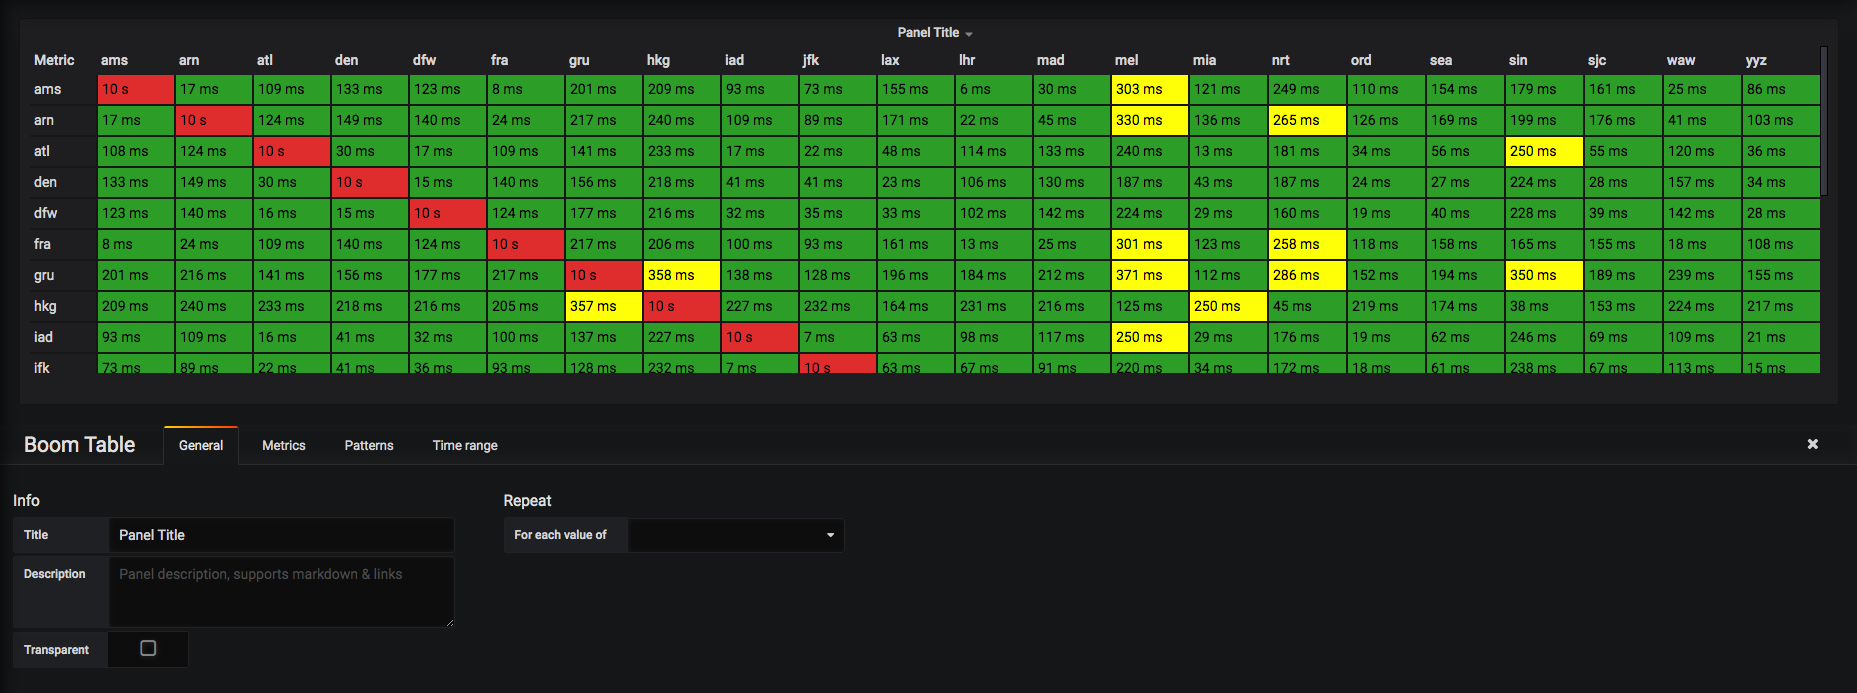
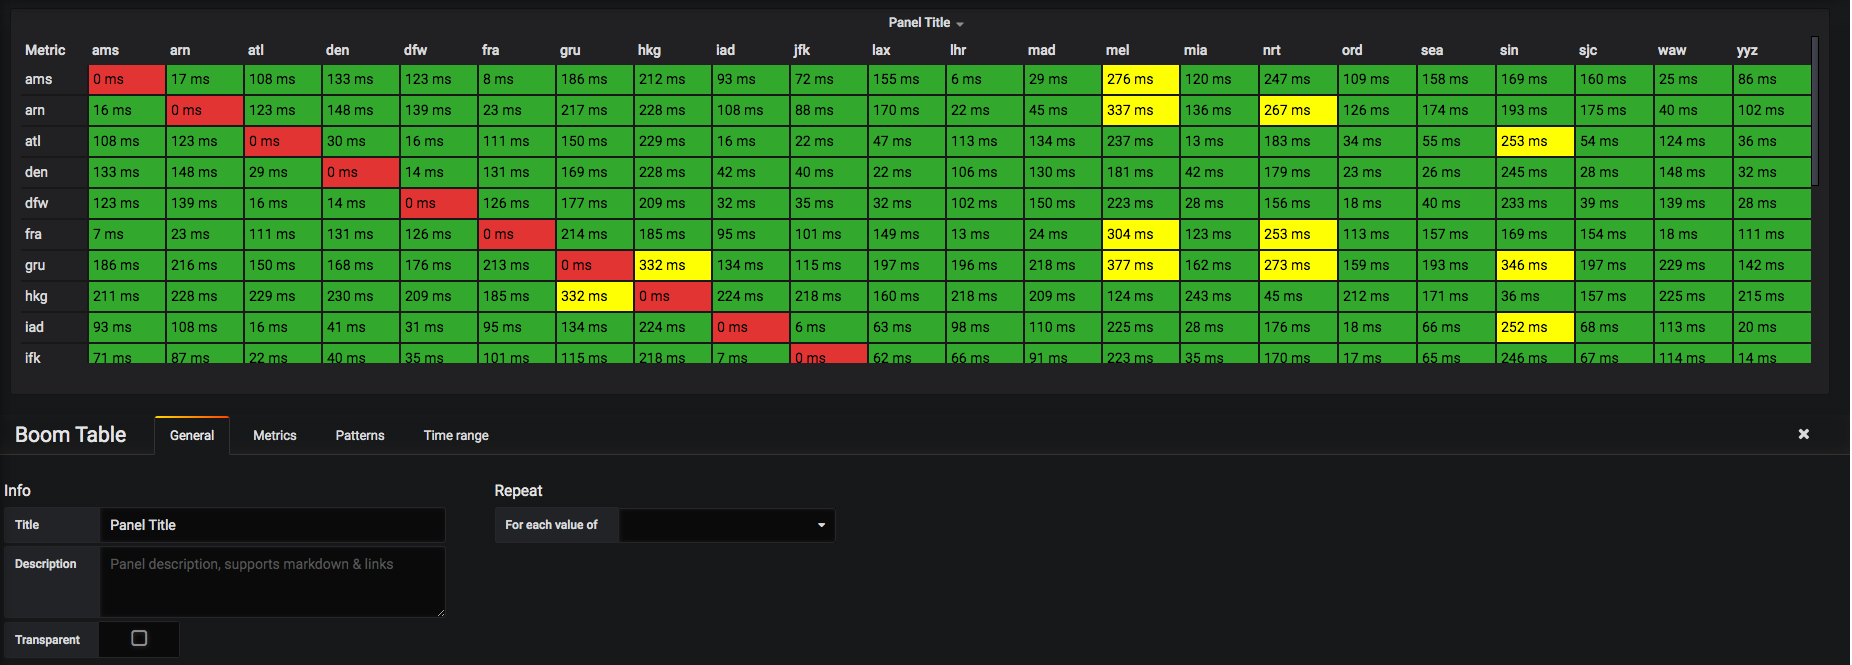
Updating images and README

diff --git a/README.md b/README.md
@@ -64,8 +64,7 @@ In this workshope Edge Compute will be utilized in two ways:
 <a name="scouter_api"></a>
 #### Scouter API
 
-The Scouter API project will allow us to perform remote network diagnostics, in this case
-an ICMP ping to record network latencies values over time.
+The Scouter API project will allow us to perform remote network diagnostics, in this case ICMP ping and traceroute so we can record historical latency and routing data.
 
 <a name="telegraf"></a>
 #### Telegraf
@@ -77,7 +76,7 @@ data to InfluxDB.
 <a name="influxdb"></a>
 #### InfluxDB
 
-InfluxDB will be our time series datastore. Since InfluxDB work very well with Telegraf and Grafana,
+InfluxDB will be our time series datastore. Since InfluxDB works very well with Telegraf and Grafana,
 the choice was very easy to make.
 
 <a name="grafana"></a>
@@ -368,7 +367,7 @@ sudo yum localinstall telegraf-1.8.3-1.x86_64.rpm
 
 Before we start the agent, let's get quickly setup to run the custom Scouter data collection script.
 
-We're going to need to generate an SP2.0 `Client ID` and `Client Secret` and note them. This can easily done from the SP2.0 `Dashboard`'s `API Access` section.
+We're going to need to generate an SP2.0 `Client ID` and `Client Secret` and note them. This can easily be done from the SP2.0 `Dashboard`'s `API Access` section.
 
 We're also going to need to take note of our `Global Scouter API Workload`'s associated Stack and Workload IDs. This can be pulled from the `Overview` page's URL. Here's and example:
 
@@ -619,6 +618,9 @@ Navigate to the `Patterns` tab and modify the following field values:
   * **Thresholds**: `250,500,1000`
   * **Change BG Color based on thresholds?**: :white_check_mark:
   * **BG Colors for thresholds**: `green|yellow|orange|red`
+* *Overrides*
+  * **Enable BG Color overrides for specific values?**: :white_check_mark:
+  * **BG Color Overrides**: `0->red`
 
 Once modified our `Patterns` tab should look like this:
 
@@ -662,7 +664,6 @@ Go ahead and select `Import`.
 
 You should now see the same exact panel we created in the previous section but also two additional
 panels, `EdgeCompute Jitter PCT Mesh` and `EdgeCompute Packet Loss Mesh`. These are very similar to our `EdgeCompute Latency Mesh` but the metrics being visualized are `jitter_pct` and `loss_pct` respectively.
-
 
 ![grafana_edge_compute_performance_mesh](/images/grafana_edge_compute_performance_mesh.png)
 
